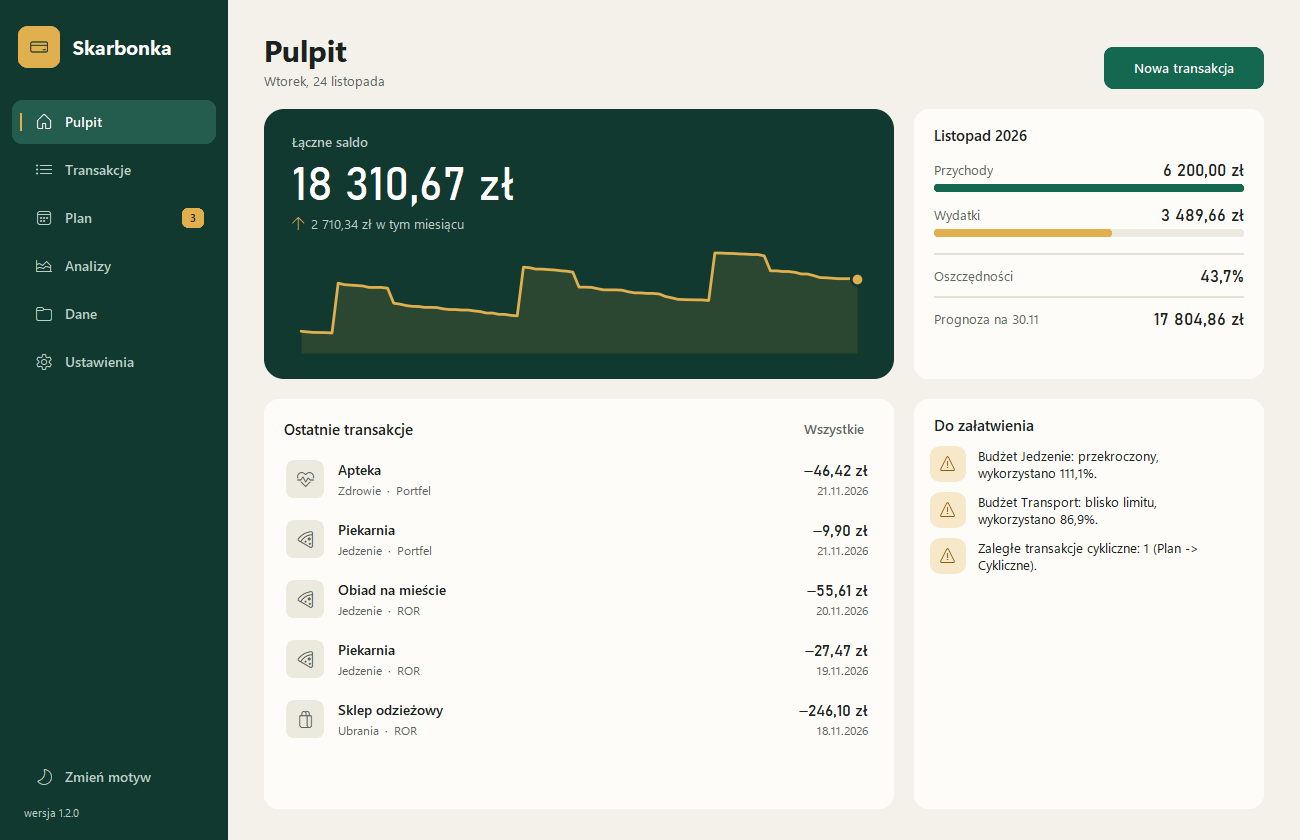
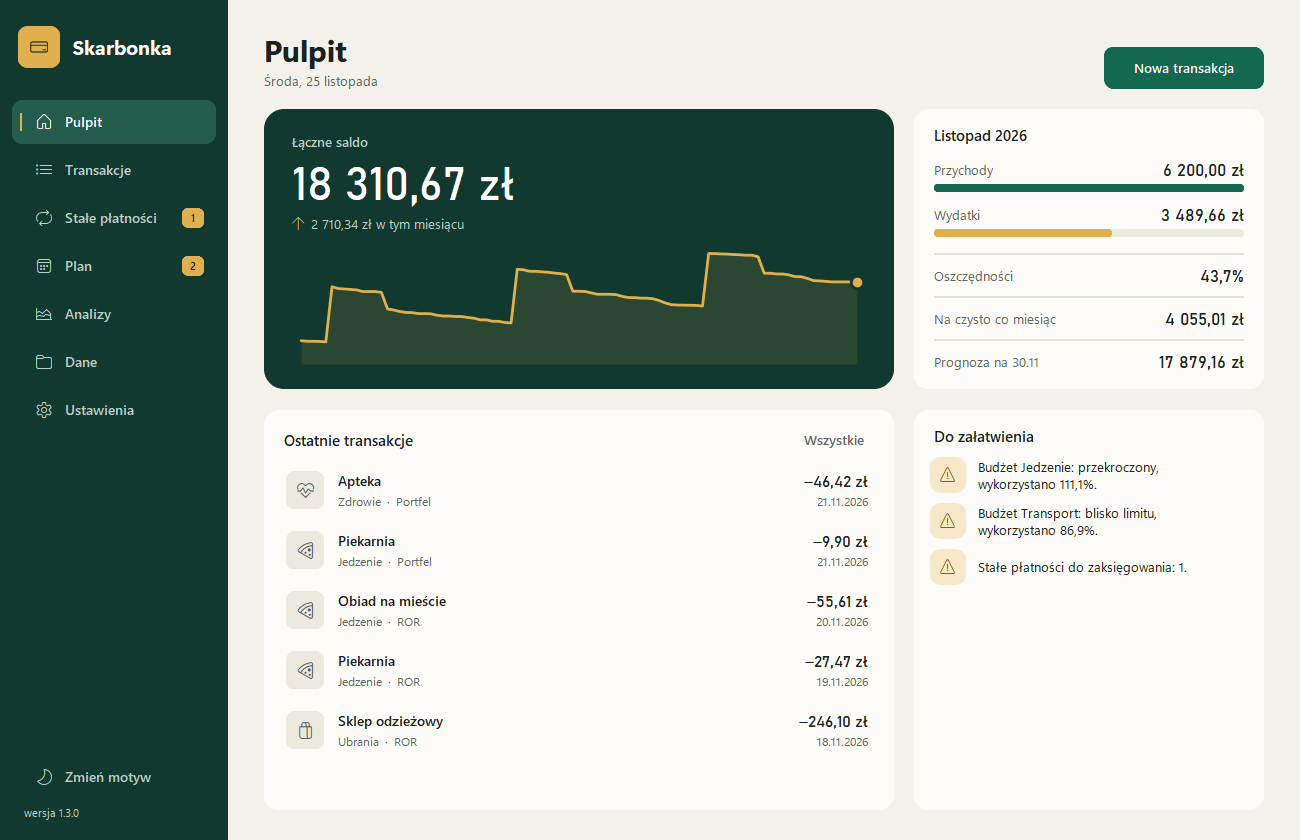
Opisz stałe płatności w README

diff --git a/README.md b/README.md
@@ -6,6 +6,8 @@ Menedżer budżetu domowego z dwoma interfejsami: w oknie i w konsoli. Zapisuje 
 
 ![Transakcje](docs/okno_transakcje.png)
 
+![Stałe płatności](docs/okno_stale.png)
+
 ![Panel dodawania w ciemnym motywie](docs/okno_panel.png)
 
 ![Analizy w ciemnym motywie](docs/okno_analizy.png)
@@ -15,7 +17,8 @@ Menedżer budżetu domowego z dwoma interfejsami: w oknie i w konsoli. Zapisuje 
 ## Najważniejsze funkcje
 
 - **Transakcje:** wydatki, przychody i przelewy między kontami, edycja, wyszukiwanie, wydatki w obcej walucie
-- **Plan:** budżety z ostrzeżeniami, cele oszczędnościowe, transakcje cykliczne
+- **Stałe płatności:** regularne przychody i opłaty (co tydzień, miesiąc, kwartał lub rok), kwota, która zostaje na czysto, terminy i księgowanie jednym kliknięciem
+- **Plan:** budżety z ostrzeżeniami, cele oszczędnościowe
 - **Analizy:** podsumowania, udziały kategorii, trend, prognoza salda w trzech wariantach, wykresy PNG
 - **Dane:** import wyciągów CSV z wykrywaniem duplikatów, eksport CSV, raport TXT, kopie zapasowe JSON
 - **Bezpieczeństwo:** każda dana wejściowa jest sprawdzana, błędy trafiają do logu, a uszkodzona baza jest odkładana i zastępowana kopią
@@ -81,7 +84,7 @@ Testy:
 | Menu | Opcje |
 |---|---|
 | 1. Transakcje | dodaj wydatek, dodaj przychód, przelew, wydatek w obcej walucie, lista, szukaj i filtruj, edytuj, usuń |
-| 2. Plan | budżety (stan, limit, kopiowanie, usuwanie), cele (postęp, dodawanie, wpłaty, usuwanie), transakcje cykliczne (lista, dodawanie, księgowanie zaległych, wyłączanie, usuwanie) |
+| 2. Plan | budżety (stan, limit, kopiowanie, usuwanie), cele (postęp, dodawanie, wpłaty, usuwanie), stałe przychody i opłaty (lista i kwota na czysto, płatności w tym miesiącu, dodawanie, edycja, księgowanie zaległych, wyłączanie, usuwanie) |
 | 3. Analizy | saldo i sumy, podsumowanie miesiąca, kategorie, trend, największe wydatki, prognoza, wykresy PNG |
 | 4. Dane | import CSV, cofnięcie importu, eksport CSV, raport TXT, utworzenie i przywrócenie kopii |
 | 5. Ustawienia | konta, kategorie, reguły kategorii, profile CSV banków, próg ostrzeżeń |
@@ -96,12 +99,13 @@ Pliki do wypróbowania importu są w katalogu `przyklady`: poprawny `wyciag_demo
 |---|---|
 | Pulpit | saldo z wykresem, bieżący miesiąc, prognoza, ostatnie transakcje, sprawy do załatwienia |
 | Transakcje | lista pogrupowana dniami, szukanie w trakcie pisania, filtry okresu, konta i kategorii, edycja (także dwuklikiem) i usuwanie |
-| Plan | budżety i cele z paskami postępu, transakcje cykliczne z zaległościami |
+| Stałe płatności | kwota na czysto co miesiąc, lista stałych przychodów i opłat, terminy tego miesiąca z księgowaniem |
+| Plan | budżety i cele z paskami postępu |
 | Analizy | wykresy kategorii, trendu i salda, zapis do PNG, prognoza |
 | Dane | import z podglądem i duplikatami, eksport, raport, kopie zapasowe |
 | Ustawienia | konta, kategorie, reguły, profile CSV, próg ostrzeżeń |
 
-Transakcje dodaje się w panelu wysuwanym z prawej: kategorię wybiera się kafelkiem z ikoną, a reguły podpowiadają ją w trakcie pisania opisu. Skróty: `Ctrl+N` nowa transakcja, `Ctrl+1` do `Ctrl+6` widoki, `Enter` zapis, `Esc` zamknięcie panelu. Motyw jasny lub ciemny jest zapamiętywany. Okno korzysta z tych samych serwisów i tej samej walidacji co konsola.
+Transakcje dodaje się w panelu wysuwanym z prawej: kategorię wybiera się kafelkiem z ikoną, a reguły podpowiadają ją w trakcie pisania opisu. Skróty: `Ctrl+N` nowa transakcja, `Ctrl+1` do `Ctrl+7` widoki, `Enter` zapis, `Esc` zamknięcie panelu. Motyw jasny lub ciemny jest zapamiętywany. Okno korzysta z tych samych serwisów i tej samej walidacji co konsola.
 
 ## Architektura
 
@@ -139,7 +143,9 @@ Zależności idą w jedną stronę: `ui` lub `gui -> services -> storage`, a z `
 
 Kwoty są typu `Decimal`, a w bazie są zapisywane w groszach jako liczby całkowite, więc nie powstają błędy zaokrągleń.
 
-**Jak powstaje prognoza.** Od dzisiejszego salda aplikacja odejmuje lub dodaje niezaksięgowane transakcje cykliczne do końca miesiąca, a potem odejmuje dzienne tempo pozostałych wydatków pomnożone przez liczbę dni. Tempo pochodzi z trzech poprzednich miesięcy: średnia daje wariant realistyczny, najniższe optymistyczny, najwyższe pesymistyczny.
+**Jak powstaje kwota na czysto.** Każda aktywna stała pozycja jest przeliczana na jeden miesiąc: tygodniowa razy 52 i przez 12, kwartalna przez 3, roczna przez 12. Od sumy stałych przychodów aplikacja odejmuje sumę stałych opłat. Opłata dodana do listy nie zmienia salda, dopóki nie zostanie zaksięgowana. Płatność zaksięgowana przed terminem dostaje dzisiejszą datę.
+
+**Jak powstaje prognoza.** Od dzisiejszego salda aplikacja odejmuje lub dodaje niezaksięgowane stałe płatności do końca miesiąca, a potem odejmuje dzienne tempo pozostałych wydatków pomnożone przez liczbę dni. Tempo pochodzi z trzech poprzednich miesięcy: średnia daje wariant realistyczny, najniższe optymistyczny, najwyższe pesymistyczny.
 
 ## Biblioteki
 
